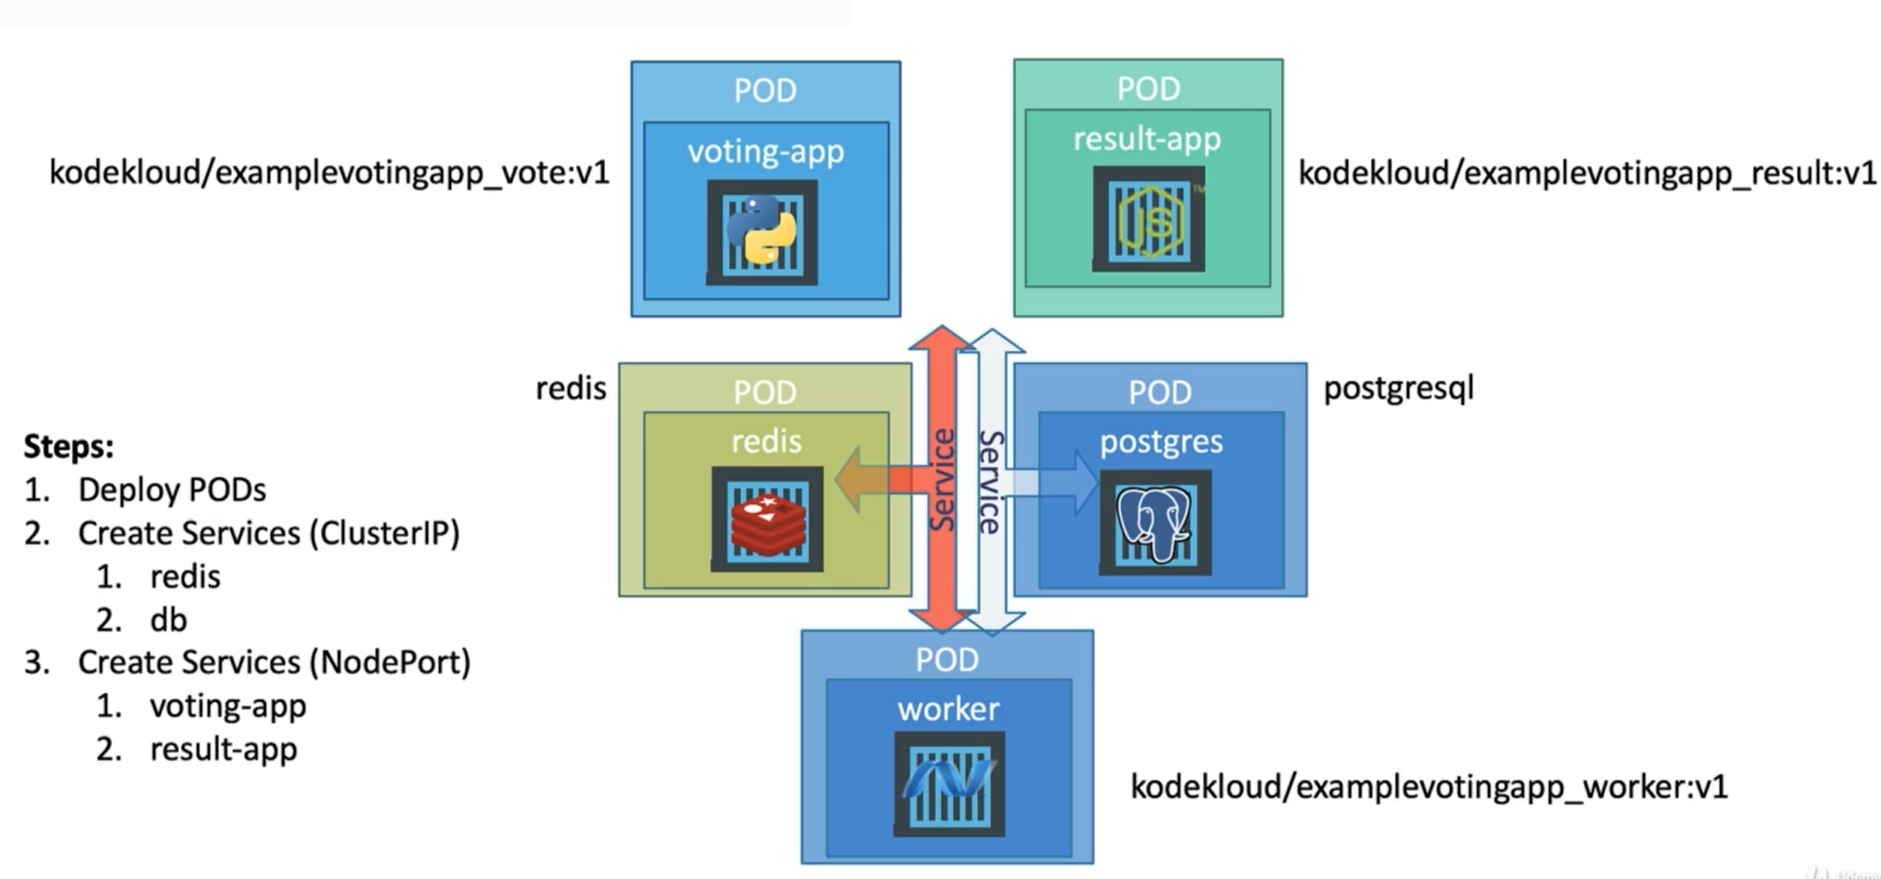
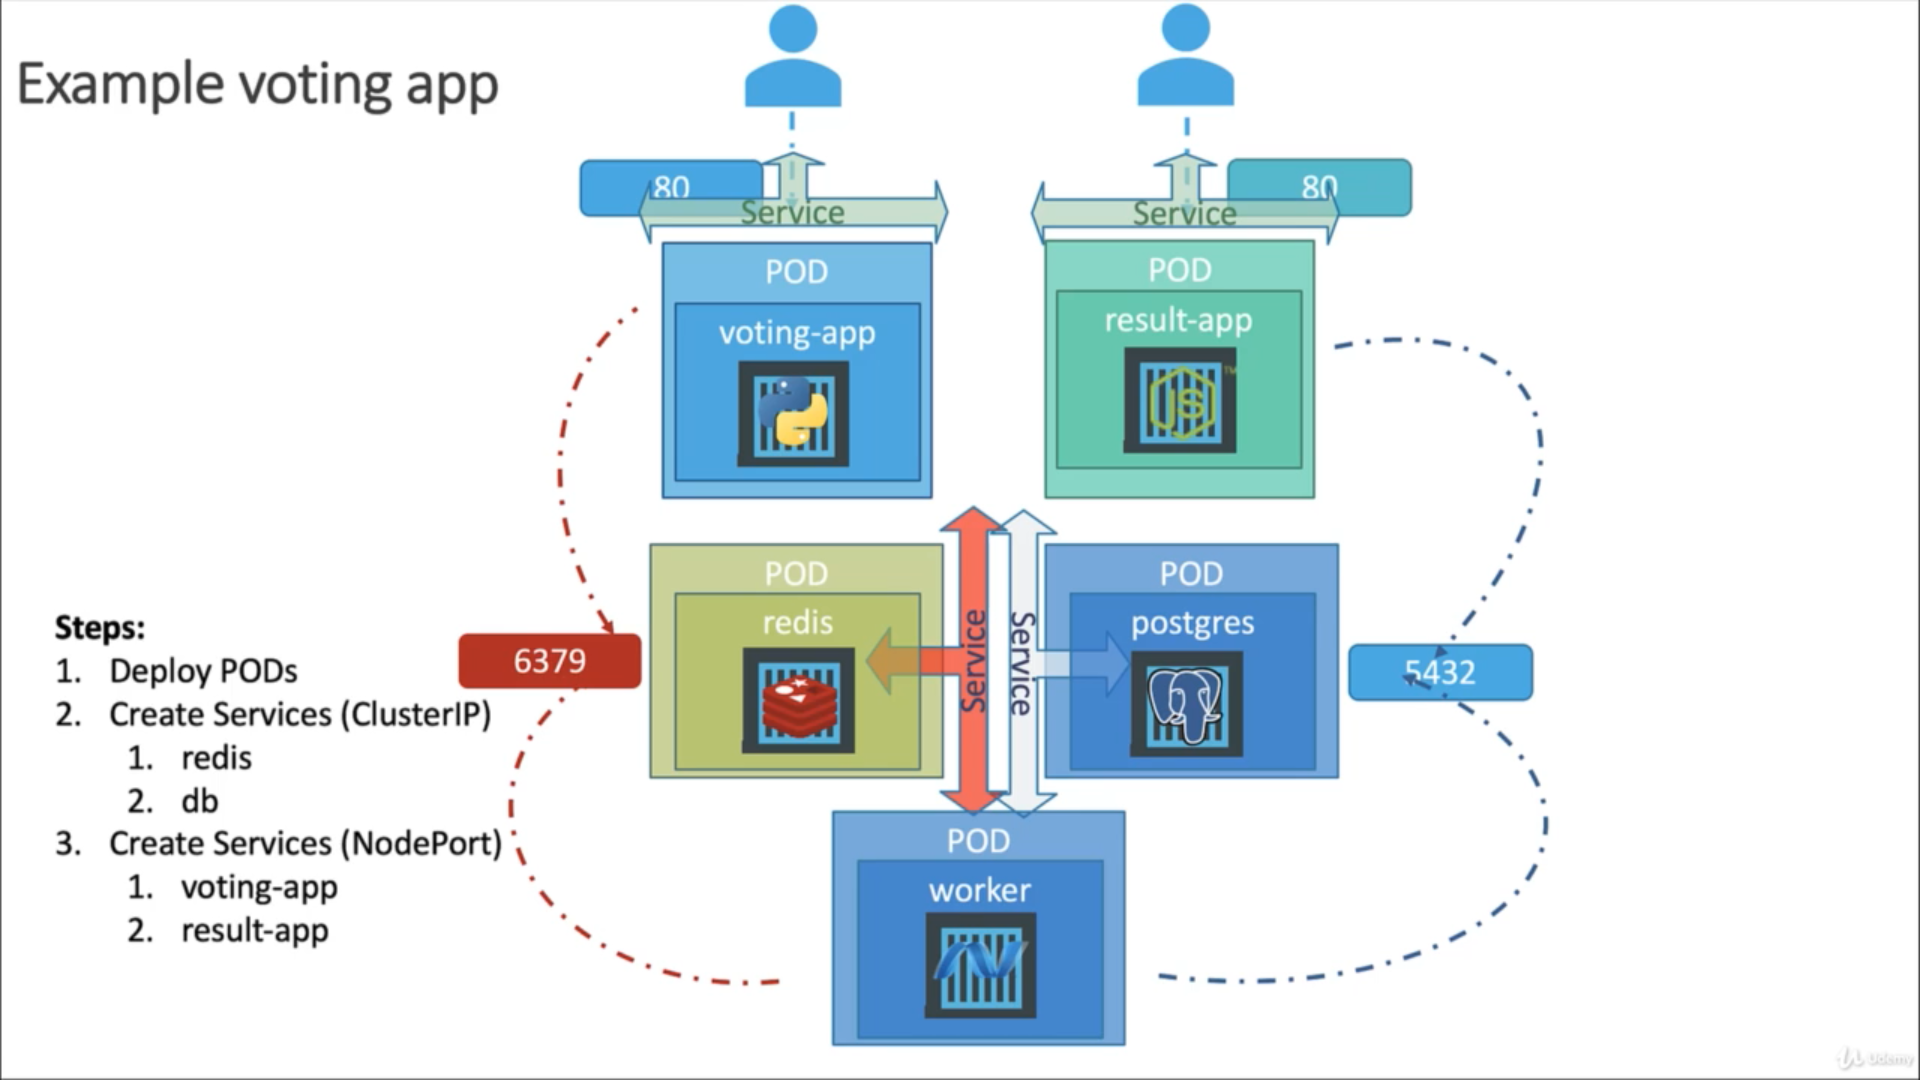
Updated deployment architecture diagram

Changed region(s): [[0.0, 0.0, 1.0, 1.0], [0.0, 0.0307, 0.2775, 0.1229]]

diff --git a/README.md b/README.md
@@ -22,6 +22,10 @@ Install K8 through Docker desktop for Mac: https://medium.com/backbase/kubernete
 
 ![K8_diagram!](/images/voting-app-pods-services.png)
 
+**Deployment Architecture**
+
+![K8_deployment_diagram!](/images/voting-app-deployment.png)
+
 * A front-end web app in Python which lets you vote between two options
 * A Redis queue which collects new votes
 * A .NET Core worker which consumes votes and stores them in Postgres database
